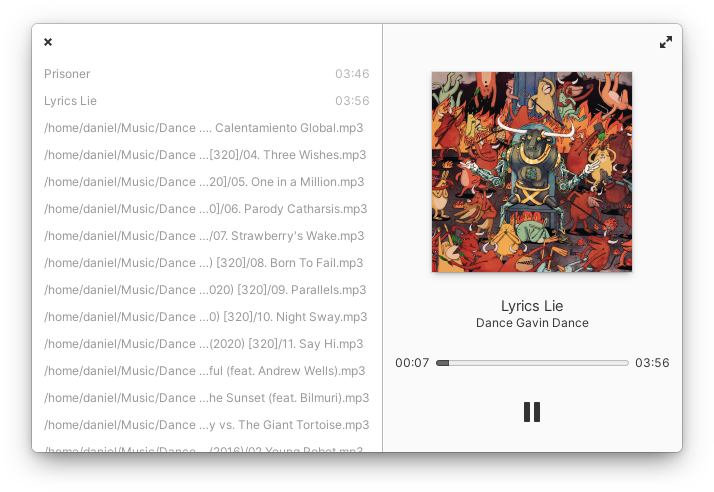
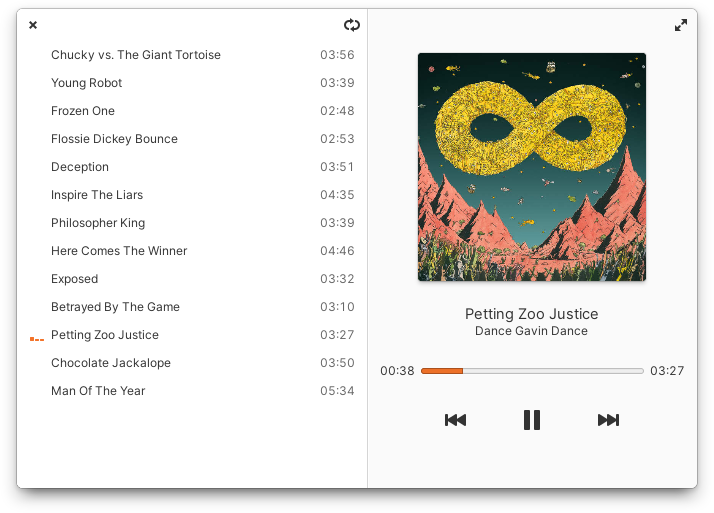
Add Repeat control (#677)

diff --git a/meson/post_install.py b/meson/post_install.py
@@ -1,0 +1,10 @@
+#!/usr/bin/env python3
+
+import os
+import subprocess
+
+schemadir = os.path.join(os.environ['MESON_INSTALL_PREFIX'], 'share', 'glib-2.0', 'schemas')
+
+if not os.environ.get('DESTDIR'):
+	print('Compiling gsettings schemas...')
+	subprocess.call(['glib-compile-schemas', schemadir])
